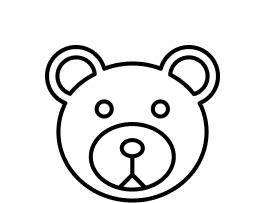
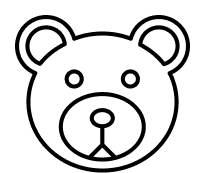
new changes

Changed region(s): [[0.0585, 0.0867, 0.9366, 1.0]]

diff --git a/app/components/UserAvatar.tsx b/app/components/UserAvatar.tsx
@@ -1,36 +1,35 @@
-export default function Avatar({size = 96, src,}: {
+"use client"
+
+import { useEffect, useState } from "react"
+
+export default function Avatar({
+  size = 96,
+  src,
+}: {
   size?: number
   src?: string
 }) {
-  if (src) {
-    return (
-      <img
-        src={src}
-        style={{ width: size, height: size }}
-        className="rounded-full object-cover"
-      />
-    )
-  }
+  const fallbackSrc = "/assets/bear.png"
+  const normalizedSrc =
+    src && src.trim().length > 0 ? src : fallbackSrc
+
+  const [imgSrc, setImgSrc] = useState(normalizedSrc)
+
+  useEffect(() => {
+    setImgSrc(normalizedSrc)
+  }, [normalizedSrc])
 
   return (
-    <div
+    <img
+      src={imgSrc}
+      alt="Profile avatar"
       style={{ width: size, height: size }}
-      className="rounded-full bg-gray-200 flex items-center justify-center"
-    >
-       <svg
-        viewBox="-10 -10 235 235"
-        xmlns="http://www.w3.org/2000/svg"
-        fill="currentColor"
-        stroke="currentColor"
-        strokeWidth="2"
-        // strokeLinecap="round"
-        // strokeLinejoin="round"
-        className="w-2/3 h-2/3 text-amber-900">
-
-        <path d="M107.627,204.522c-51.61,0-93.599-38.916-93.599-86.75c0-11.942,2.563-23.478,7.62-34.33C8.413,77.087,0,63.837,0,48.982 c0-21.091,17.159-38.25,38.25-38.25c16.461,0,30.978,10.52,36.209,25.899c10.587-3.723,21.731-5.609,33.168-5.609 c11.436,0,22.58,1.886,33.168,5.609c5.231-15.38,19.749-25.899,36.209-25.899c21.091,0,38.25,17.159,38.25,38.25 c0,14.855-8.413,28.105-21.649,34.46c5.059,10.853,7.621,22.389,7.621,34.33C201.226,165.606,159.237,204.522,107.627,204.522z M38.25,15.732C19.916,15.732,5,30.648,5,48.982c0,13.696,8.226,25.822,20.956,30.893c0.652,0.26,1.164,0.781,1.413,1.437 c0.248,0.656,0.21,1.386-0.105,2.012c-5.465,10.833-8.235,22.422-8.235,34.449c0,45.077,39.745,81.75,88.599,81.75 s88.599-36.673,88.599-81.75c0-12.025-2.771-23.615-8.236-34.449c-0.315-0.626-0.354-1.356-0.105-2.012 c0.249-0.656,0.762-1.177,1.413-1.437c12.73-5.071,20.957-17.197,20.957-30.893c0-18.334-14.916-33.25-33.25-33.25 c-15.109,0-28.335,10.196-32.163,24.794c-0.18,0.687-0.644,1.265-1.275,1.589c-0.631,0.325-1.37,0.365-2.036,0.111 c-10.762-4.117-22.168-6.205-33.902-6.205c-11.735,0-23.142,2.088-33.903,6.205c-0.663,0.253-1.404,0.214-2.036-0.111 c-0.632-0.324-1.096-0.902-1.275-1.59C66.585,25.928,53.359,15.732,38.25,15.732z M107.38,190.982c-29.5,0-53.5-19.178-53.5-42.75 s24-42.75,53.5-42.75s53.5,19.178,53.5,42.75c0,18.685-15.078,34.608-36.024,40.408c-0.414,0.25-0.911,0.372-1.353,0.358 C118.413,190.287,112.996,190.982,107.38,190.982z M96.251,184.979c3.574,0.656,7.301,1.003,11.129,1.003s7.554-0.347,11.128-1.002 l-11.128-11.128L96.251,184.979z M109.88,169.28l14.352,14.352c18.462-5.34,31.648-19.194,31.648-35.4 c0-20.815-21.757-37.75-48.5-37.75s-48.5,16.935-48.5,37.75c0,16.205,13.188,30.058,31.647,35.4l14.353-14.352v-19.401 c-7.311-0.964-12.905-6.084-12.905-12.236c0-6.837,6.911-12.399,15.405-12.399s15.404,5.563,15.404,12.399 c0,6.152-5.596,11.272-12.904,12.236V169.28z M107.38,130.243c-5.641,0-10.405,3.389-10.405,7.399s4.765,7.399,10.405,7.399 c5.64,0,10.404-3.389,10.404-7.399S113.02,130.243,107.38,130.243z M141.938,101.173c-6.479,0-11.75-5.271-11.75-11.75 s5.271-11.75,11.75-11.75s11.75,5.271,11.75,11.75S148.416,101.173,141.938,101.173z M141.938,82.673c-3.722,0-6.75,3.028-6.75,6.75 s3.028,6.75,6.75,6.75s6.75-3.028,6.75-6.75S145.659,82.673,141.938,82.673z M72.821,101.173c-6.479,0-11.75-5.271-11.75-11.75 s5.271-11.75,11.75-11.75s11.75,5.271,11.75,11.75S79.3,101.173,72.821,101.173z M72.821,82.673c-3.722,0-6.75,3.028-6.75,6.75 s3.028,6.75,6.75,6.75s6.75-3.028,6.75-6.75S76.543,82.673,72.821,82.673z M183.182,73.618c-0.763,0-1.498-0.35-1.979-0.973 c-7.218-9.357-17.014-17.355-28.329-23.13c-0.896-0.457-1.43-1.406-1.356-2.408c0.964-13.247,12.132-23.624,25.424-23.624 c14.061,0,25.5,11.439,25.5,25.5c0,11.371-7.641,21.463-18.582,24.542C183.635,73.587,183.407,73.618,183.182,73.618z M156.685,45.863c10.766,5.744,20.175,13.421,27.381,22.34c7.951-2.949,13.375-10.631,13.375-19.221c0-11.304-9.196-20.5-20.5-20.5 C166.799,28.482,158.195,35.995,156.685,45.863z M30.847,73.236c-0.271,0-0.545-0.044-0.812-0.135 c-10.302-3.536-17.223-13.228-17.223-24.119c0-14.061,11.439-25.5,25.5-25.5c13.093,0,23.994,9.807,25.358,22.813 c0.109,1.044-0.445,2.045-1.389,2.507c-11.774,5.756-21.964,13.874-29.466,23.474C32.334,72.893,31.602,73.236,30.847,73.236z M38.313,28.482c-11.304,0-20.5,9.196-20.5,20.5c0,8.173,4.849,15.507,12.23,18.758c7.477-9.116,17.237-16.885,28.408-22.612 C56.64,35.526,48.264,28.482,38.313,28.482z"></path>
-      </svg> 
-
-      
-    </div>
+      className="rounded-full object-contain bg-gray-200"
+      onError={() => {
+        if (imgSrc !== fallbackSrc) {
+          setImgSrc(fallbackSrc)
+        }
+      }}
+    />
   )
 }

diff --git a/app/components/UserCard.tsx b/app/components/UserCard.tsx
@@ -1,11 +1,14 @@
 "use client"
 
+import Avatar from "../components/UserAvatar"
+
 interface UserItem {
   id: string
   firstName: string
   lastName: string
   username: string
   reviewCount: number
+  avatarUrl: string | null
 }
 
 interface UserCardProps {
@@ -28,18 +31,27 @@ export default function UserCard({
         isSelected ? "bg-amber-50 shadow-md" : "bg-rose-50"
       }`}
     >
-      <p className="font-rubik font-medium text-amber-900">
-        {user.firstName} {user.lastName}
-      </p>
+      <div className="flex items-center gap-4">
+        <Avatar
+          size={56}
+          src={user.avatarUrl ?? undefined}
+        />
 
-      <p className="mt-1 font-rubik text-sm text-gray-600">
-        @{user.username}
-      </p>
+        <div className="flex-1">
+          <p className="font-rubik font-medium text-amber-900">
+            {user.firstName} {user.lastName}
+          </p>
 
-      <div className="mt-3 flex flex-wrap gap-2">
-        <span className="rounded-full bg-amber-100 px-2 py-1 font-rubik text-xs text-amber-900">
-          {user.reviewCount} review{user.reviewCount === 1 ? "" : "s"}
-        </span>
+          <p className="mt-1 font-rubik text-sm text-gray-600">
+            @{user.username}
+          </p>
+
+          <div className="mt-3 flex flex-wrap gap-2">
+            <span className="rounded-full bg-amber-100 px-2 py-1 font-rubik text-xs text-amber-900">
+              {user.reviewCount} review{user.reviewCount === 1 ? "" : "s"}
+            </span>
+          </div>
+        </div>
       </div>
     </button>
   )

diff --git a/app/poopers/page.tsx b/app/poopers/page.tsx
@@ -14,6 +14,7 @@ interface ProfileRecord {
   username: string
   firstName: string
   lastName: string
+  avatarUrl: string | null
   twoFactorEnabled: boolean
 }
 
@@ -179,7 +180,7 @@ export default function PoopersProfilePage() {
       username: profile.username,
       firstName: profile.firstName,
       lastName: profile.lastName,
-      avatarUrl: null,
+      avatarUrl: profile.avatarUrl,
       reviewCount: reviews.filter((review) => review.user.username === profile.username).length,
     })
   }, [profile, users, selectedUser, reviews])
@@ -192,7 +193,7 @@ export default function PoopersProfilePage() {
           username: profile.username,
           firstName: profile.firstName,
           lastName: profile.lastName,
-          avatarUrl: null,
+          avatarUrl: profile.avatarUrl,
           reviewCount: reviews.filter((review) => review.user.username === profile.username).length,
         }
       : null)
@@ -230,7 +231,10 @@ export default function PoopersProfilePage() {
            <div className="flex flex-col items-center text-center space-y-2">
     
                 {/* Avatar */}
-                <Avatar size={220} />
+                <Avatar
+                  size={220}
+                  src={displayedUser?.avatarUrl ?? undefined}
+                />
 
                 {/* Username */}
                 <h2 className="text-2xl font-semibold mt-2">
